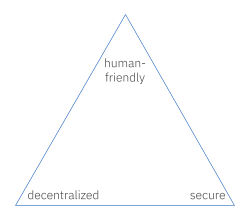
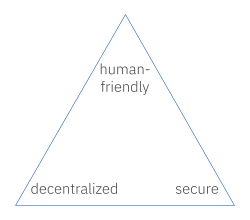
better graphics

Changed region(s): [[0.392, 0.2727, 0.616, 0.4364], [0.112, 0.8182, 0.476, 0.9273], [0.7, 0.8455, 0.896, 0.9273]]

diff --git a/zh.md b/zh.md
@@ -39,7 +39,7 @@ The person that I call "Regina Q. Public", you might call "Reggie P" or "Mom" or
 
 This might seem like cheating. After all, Zooko's triangle was formulated in terms of a *network protocol*. Wouldn't everybody who interacts over a network protocol want to use the same human-friendly identifier, to eliminate ambiguity?
 
-# Thinking more carefully about friendliness
+## Thinking more carefully about friendliness
 
 I claim that the answer is an emphatic "No". Humans don't speak network protocols, so making human-friendliness a success criterion of network protocols is a mistake.
 
